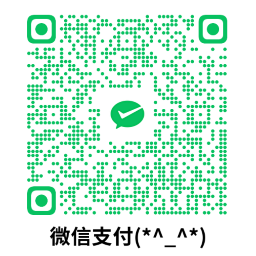
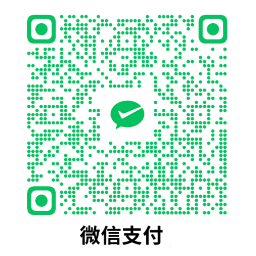
接受赞助

Changed region(s): [[0.1875, 0.875, 0.6875, 0.9688], [0.6875, 0.875, 0.8125, 0.9688]]

diff --git a/README.md b/README.md
@@ -103,7 +103,7 @@ MetaSweeper v3.1.0_beta is a minesweeper game developed by players who love mine
 [https://twitter.com/RustRepos/status/1636837781765799940](https://twitter.com/RustRepos/status/1636837781765799940)
 
 ## 赞助
-感谢您考虑支持我们的开源项目。您的赞助将有助于项目的持续发展和改进，使我们能够继续为社区提供高质量的软件（owner许诺向所有contributor按合理的比例分配赞助得到的收入）。  
+感谢您考虑支持我们的开源项目，赞助时请备注您的称呼。您的赞助将有助于项目的持续发展和改进，使我们能够继续提高软件的质量（owner许诺向所有contributor按合理的比例分配赞助得到的收入）。  
 ### 一般赞助者
 - 一次性捐款￥10或以上
 - 您的名字将出现在项目的贡献者列表中
